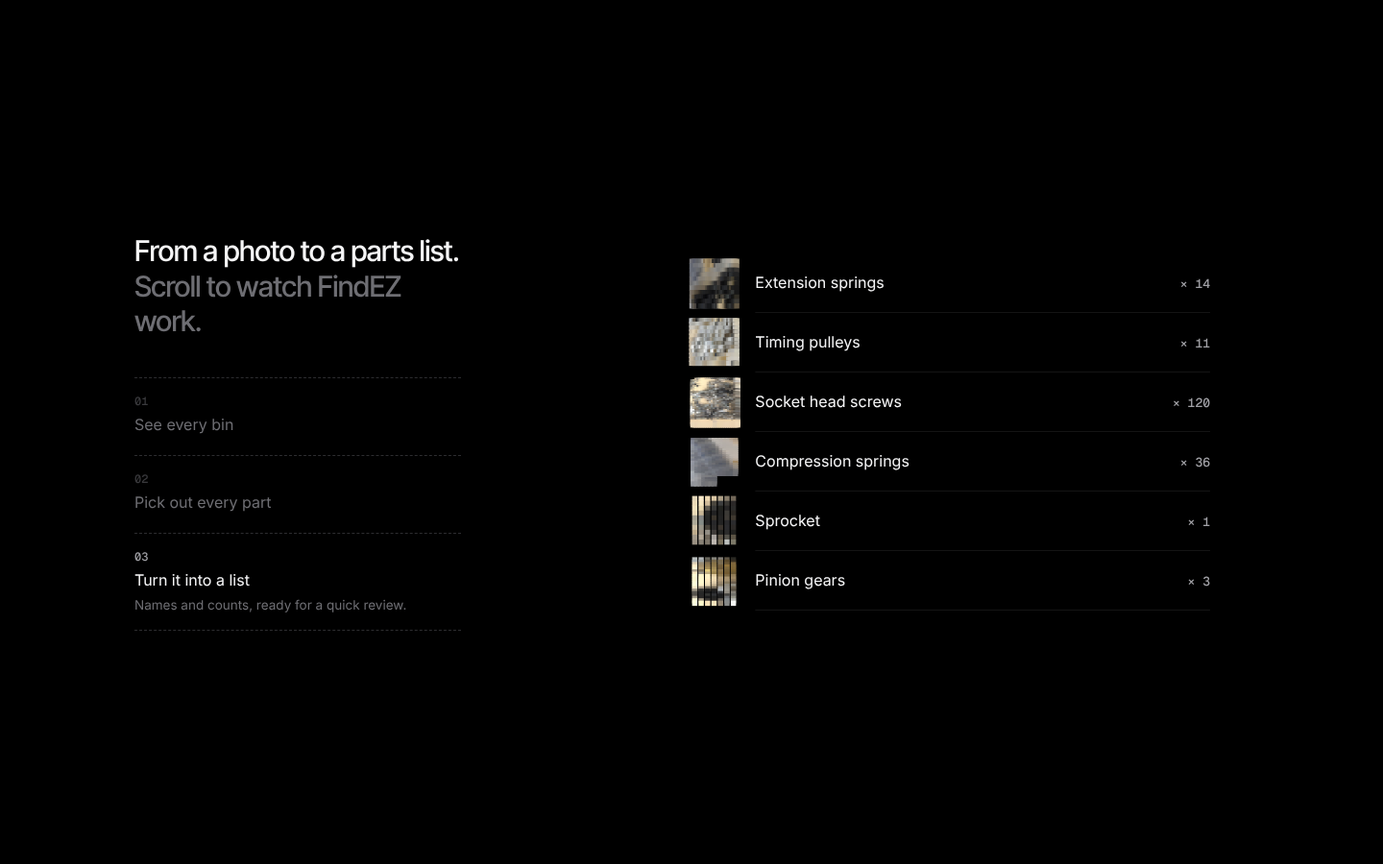
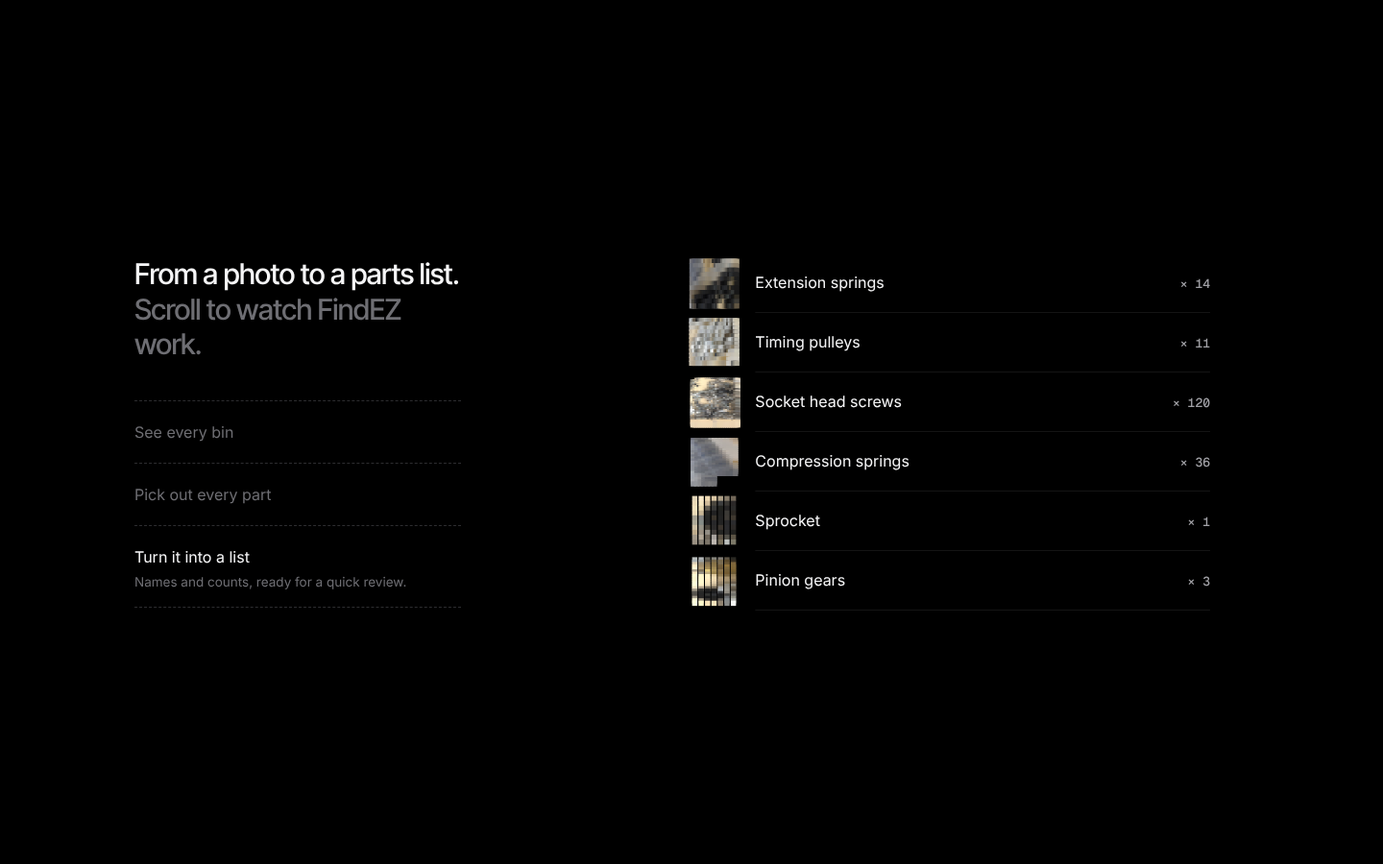
Apply revised homepage links and Community navigation

diff --git a/docs/landing-v3/prototype/findez-landing.html b/docs/landing-v3/prototype/findez-landing.html
@@ -249,7 +249,7 @@ body{overflow-x:hidden}
 .fa2 .fine{margin-top:14px;font-size:13px;color:var(--g2);max-width:480px;line-height:1.5}
 /* footer */
 .x-foot{border-top:1px solid var(--ln);padding:64px 0 40px}
-.x-fg{display:grid;grid-template-columns:1.6fr 1fr 1fr;gap:40px}
+.x-fg{display:grid;grid-template-columns:1.6fr 1fr 1fr 1fr;gap:40px}
 .x-fg h4{font:400 13px Inter;color:var(--g2);margin-bottom:12px}
 .x-fg a{display:block;color:var(--g1);text-decoration:none;font-size:14px;line-height:2.1}.x-fg a:hover{color:var(--w)}
 .x-fg .x-logo{display:flex;line-height:1}
@@ -314,18 +314,27 @@ body>header{z-index:60;position:fixed}
 .fa-bot small{display:block;font-size:10px;letter-spacing:.16em;color:rgba(11,11,12,.55);margin-bottom:3px;font-weight:500}
 .fa-shadow{position:absolute;left:50%;bottom:38px;width:340px;height:40px;margin-left:-170px;border-radius:50%;background:radial-gradient(closest-side,rgba(0,0,0,.85),transparent)}
 @media (max-width:980px){.fa-card{grid-template-columns:1fr;padding:40px 22px 10px;min-height:0;border-radius:22px}.fa-h{font-size:38px}.fa-h span{font-size:17px}.fa-list{grid-template-columns:1fr}.fa-stage{height:300px}.fa-pass{width:300px;height:190px;padding:18px 20px;border-radius:18px}.fa-name{margin-top:30px;font-size:25px}.fa-bot{gap:24px;font-size:12.5px}.fa-shadow{width:240px;margin-left:-120px;bottom:30px}}
+
+.x-dd{position:relative}
+.x-ddb{display:flex;align-items:center;gap:6px;background:none;border:0;padding:0;font:inherit;font-size:14px;color:var(--g1);cursor:pointer}
+.x-ddb:hover,.x-dd:focus-within .x-ddb{color:var(--w)}
+.x-ddm{position:absolute;left:50%;top:100%;margin-top:14px;transform:translate(-50%,-4px);min-width:160px;padding:6px;border-radius:12px;background:#111113;box-shadow:inset 0 0 0 1px #2C2C2E,0 20px 40px -12px #000;opacity:0;pointer-events:none;transition:opacity .2s,transform .3s var(--e)}
+.x-ddm:before{content:'';position:absolute;left:0;right:0;top:-16px;height:16px}
+.x-dd:hover .x-ddm,.x-dd:focus-within .x-ddm{opacity:1;pointer-events:auto;transform:translate(-50%,0)}
+.x-ddm a{display:block;padding:8px 12px;border-radius:8px;color:var(--g1);text-decoration:none;font-size:14px}
+.x-ddm a:hover{background:#1C1C1F;color:var(--w)}
 </style></head>
 <body>
 <canvas id="x-bg" aria-hidden="true"></canvas>
 <header class="x-nav" id="x-nav"><div class="x-in">
- <a class="x-logo" href="#"><svg width="20" height="20" viewBox="0 0 100 100" fill="#F5F5F6"><path d="M12 24A12 12 0 0 1 24 12L40.5 12A5 5 0 0 1 45.5 17L45.5 38.5A4.5 4.5 0 0 0 50 43A4.5 4.5 0 0 0 54.5 38.5L54.5 17A5 5 0 0 1 59.5 12L76 12A12 12 0 0 1 88 24L88 40.5A5 5 0 0 1 83 45.5L61.5 45.5A4.5 4.5 0 0 0 57 50A4.5 4.5 0 0 0 61.5 54.5L83 54.5A5 5 0 0 1 88 59.5L88 76A12 12 0 0 1 76 88L59.5 88A5 5 0 0 1 54.5 83L54.5 61.5A4.5 4.5 0 0 0 50 57A4.5 4.5 0 0 0 45.5 61.5L45.5 83A5 5 0 0 1 40.5 88L24 88A12 12 0 0 1 12 76L12 59.5A5 5 0 0 1 17 54.5L38.5 54.5A4.5 4.5 0 0 0 43 50A4.5 4.5 0 0 0 38.5 45.5L17 45.5A5 5 0 0 1 12 40.5Z"/></svg>FindEZ AI</a>
- <nav class="x-links"><a href="#">Solutions</a><a href="#cad">CAD Intelligence</a><a href="#x-fa">Founders Access</a><a href="#">Developers</a></nav>
- <div class="x-act"><a class="si" href="#">Sign in</a><a class="x-p w" href="#">Download</a></div>
+ <a class="x-logo" href="/"><svg width="20" height="20" viewBox="0 0 100 100" fill="#F5F5F6"><path d="M12 24A12 12 0 0 1 24 12L40.5 12A5 5 0 0 1 45.5 17L45.5 38.5A4.5 4.5 0 0 0 50 43A4.5 4.5 0 0 0 54.5 38.5L54.5 17A5 5 0 0 1 59.5 12L76 12A12 12 0 0 1 88 24L88 40.5A5 5 0 0 1 83 45.5L61.5 45.5A4.5 4.5 0 0 0 57 50A4.5 4.5 0 0 0 61.5 54.5L83 54.5A5 5 0 0 1 88 59.5L88 76A12 12 0 0 1 76 88L59.5 88A5 5 0 0 1 54.5 83L54.5 61.5A4.5 4.5 0 0 0 50 57A4.5 4.5 0 0 0 45.5 61.5L45.5 83A5 5 0 0 1 40.5 88L24 88A12 12 0 0 1 12 76L12 59.5A5 5 0 0 1 17 54.5L38.5 54.5A4.5 4.5 0 0 0 43 50A4.5 4.5 0 0 0 38.5 45.5L17 45.5A5 5 0 0 1 12 40.5Z"/></svg>FindEZ AI</a>
+ <nav class="x-links"><a href="/solutions">Solutions</a><a href="#cad">CAD Intelligence</a><a href="/founders">Founders Access</a><a href="/docs/api">Developers</a><div class="x-dd"><button class="x-ddb" type="button" aria-haspopup="true">Community<svg width="10" height="10" viewBox="0 0 24 24" fill="none" stroke="currentColor" stroke-width="2.4" stroke-linecap="round"><path d="m6 9 6 6 6-6"/></svg></button><div class="x-ddm"><a href="https://discord.gg/sKRrWA5wbf" target="_blank" rel="noopener">Discord</a><a href="https://www.instagram.com/findezai/" target="_blank" rel="noopener">Instagram</a></div></div></nav>
+ <div class="x-act"><a class="si" href="/signin">Sign in</a><a class="x-p w" href="/desktop">Download</a></div>
 </div></header>
 
 <section class="x-hero"><div class="x-in">
  <h1 class="x-h1">The AI inventory for people who build things.<span>Snap a shelf. Ask where anything is. Get the exact bin.</span></h1>
- <div class="x-ctas"><a class="x-p w lg" href="#"><svg width="14" height="16" viewBox="0 0 814 1000" fill="currentColor"><path d="M788 341c-6 4-108 62-108 190 0 148 130 200 134 201-1 3-21 72-69 142-43 62-88 124-156 124s-86-40-165-40c-77 0-104 41-166 41s-106-57-156-127C44 789 0 668 0 553c0-184 120-282 238-282 63 0 115 41 155 41 38 0 97-44 168-44 27 0 124 3 188 95zM554 169c29-35 50-83 50-131 0-7-1-13-2-19-47 2-104 32-138 72-27 30-52 79-52 128 0 7 1 15 2 17 3 1 8 1 13 1 43 0 97-29 127-68z"/></svg>Download for iPhone</a><a class="x-p d lg" href="#">Open the web app</a></div>
+ <div class="x-ctas"><a class="x-p w lg" href="https://apps.apple.com/us/app/findez-ai/id6760401697"><svg width="14" height="16" viewBox="0 0 814 1000" fill="currentColor"><path d="M788 341c-6 4-108 62-108 190 0 148 130 200 134 201-1 3-21 72-69 142-43 62-88 124-156 124s-86-40-165-40c-77 0-104 41-166 41s-106-57-156-127C44 789 0 668 0 553c0-184 120-282 238-282 63 0 115 41 155 41 38 0 97-44 168-44 27 0 124 3 188 95zM554 169c29-35 50-83 50-131 0-7-1-13-2-19-47 2-104 32-138 72-27 30-52 79-52 128 0 7 1 15 2 17 3 1 8 1 13 1 43 0 97-29 127-68z"/></svg>Download for iPhone</a><a class="x-p d lg" href="/signin">Open the web app</a></div>
  <p class="x-small">Free through Founders Access</p>
  <div class="x-stagew"><div class="x-stage" id="x-stage"><div class="x-scale" id="x-scale">
   <div class="app" id="app">
@@ -393,9 +402,9 @@ body>header{z-index:60;position:fixed}
 
 <section class="pm" id="pm"><div class="pm-st"><canvas id="pmc" aria-hidden="true"></canvas>
  <div class="pm-cp"><h2 class="x-h2">From a photo to a parts list.<span>Scroll to watch FindEZ work.</span></h2>
-  <div class="pm-ph"><div class="pm-r on"><i></i><div class="k">01</div><div class="t">See every bin</div><div class="d">Every pixel of the photo is read, every bin and everything in it.</div></div>
-   <div class="pm-r"><i></i><div class="k">02</div><div class="t">Pick out every part</div><div class="d">Each part is separated from the clutter around it.</div></div>
-   <div class="pm-r"><i></i><div class="k">03</div><div class="t">Turn it into a list</div><div class="d">Names and counts, ready for a quick review.</div></div></div></div></div></section>
+  <div class="pm-ph"><div class="pm-r on"><i></i><div class="t">See every bin</div><div class="d">Every pixel of the photo is read, every bin and everything in it.</div></div>
+   <div class="pm-r"><i></i><div class="t">Pick out every part</div><div class="d">Each part is separated from the clutter around it.</div></div>
+   <div class="pm-r"><i></i><div class="t">Turn it into a list</div><div class="d">Names and counts, ready for a quick review.</div></div></div></div></div></section>
 
 
 
@@ -410,7 +419,7 @@ body>header{z-index:60;position:fixed}
    <div class="fa-tag mono">FOUNDERS ACCESS</div>
    <h2 class="fa-h">Get in early.<span>Every feature unlocked, free while we get ready for launch.</span></h2>
    <ul class="fa-list"><li><svg width="16" height="16" viewBox="0 0 24 24" fill="none" stroke="#F5F5F6" stroke-width="2.4" stroke-linecap="round" stroke-linejoin="round"><path d="M20 6 9 17l-5-5"/></svg>Ask FindEZ anything</li><li><svg width="16" height="16" viewBox="0 0 24 24" fill="none" stroke="#F5F5F6" stroke-width="2.4" stroke-linecap="round" stroke-linejoin="round"><path d="M20 6 9 17l-5-5"/></svg>Snap a shelf, get a parts list</li><li><svg width="16" height="16" viewBox="0 0 24 24" fill="none" stroke="#F5F5F6" stroke-width="2.4" stroke-linecap="round" stroke-linejoin="round"><path d="M20 6 9 17l-5-5"/></svg>Add new items</li><li><svg width="16" height="16" viewBox="0 0 24 24" fill="none" stroke="#F5F5F6" stroke-width="2.4" stroke-linecap="round" stroke-linejoin="round"><path d="M20 6 9 17l-5-5"/></svg>Import a spreadsheet</li></ul>
-   <div class="x-ctas"><a class="x-p w lg" href="#">Join Founders Access</a><a class="x-p d lg" href="#"><svg width="14" height="16" viewBox="0 0 814 1000" fill="currentColor"><path d="M788 341c-6 4-108 62-108 190 0 148 130 200 134 201-1 3-21 72-69 142-43 62-88 124-156 124s-86-40-165-40c-77 0-104 41-166 41s-106-57-156-127C44 789 0 668 0 553c0-184 120-282 238-282 63 0 115 41 155 41 38 0 97-44 168-44 27 0 124 3 188 95zM554 169c29-35 50-83 50-131 0-7-1-13-2-19-47 2-104 32-138 72-27 30-52 79-52 128 0 7 1 15 2 17 3 1 8 1 13 1 43 0 97-29 127-68z"/></svg>Download for iPhone</a></div>
+   <div class="x-ctas"><a class="x-p w lg" href="/signup">Join Founders Access</a><a class="x-p d lg" href="https://apps.apple.com/us/app/findez-ai/id6760401697"><svg width="14" height="16" viewBox="0 0 814 1000" fill="currentColor"><path d="M788 341c-6 4-108 62-108 190 0 148 130 200 134 201-1 3-21 72-69 142-43 62-88 124-156 124s-86-40-165-40c-77 0-104 41-166 41s-106-57-156-127C44 789 0 668 0 553c0-184 120-282 238-282 63 0 115 41 155 41 38 0 97-44 168-44 27 0 124 3 188 95zM554 169c29-35 50-83 50-131 0-7-1-13-2-19-47 2-104 32-138 72-27 30-52 79-52 128 0 7 1 15 2 17 3 1 8 1 13 1 43 0 97-29 127-68z"/></svg>Download for iPhone</a></div>
    <p class="fine">Paid plans may come later. Changes are always announced in advance, and everything saved stays yours.</p>
   </div>
   <div class="fa-stage" aria-hidden="true"><div class="fa-pass" id="fa-pass"><div class="fa-sheen" id="fa-sheen"></div>
@@ -422,9 +431,9 @@ body>header{z-index:60;position:fixed}
 </div></section>
 
 <footer class="x-foot"><div class="x-in">
- <div class="x-fg"><div><a class="x-logo" href="#"><svg width="20" height="20" viewBox="0 0 100 100" fill="#F5F5F6"><path d="M12 24A12 12 0 0 1 24 12L40.5 12A5 5 0 0 1 45.5 17L45.5 38.5A4.5 4.5 0 0 0 50 43A4.5 4.5 0 0 0 54.5 38.5L54.5 17A5 5 0 0 1 59.5 12L76 12A12 12 0 0 1 88 24L88 40.5A5 5 0 0 1 83 45.5L61.5 45.5A4.5 4.5 0 0 0 57 50A4.5 4.5 0 0 0 61.5 54.5L83 54.5A5 5 0 0 1 88 59.5L88 76A12 12 0 0 1 76 88L59.5 88A5 5 0 0 1 54.5 83L54.5 61.5A4.5 4.5 0 0 0 50 57A4.5 4.5 0 0 0 45.5 61.5L45.5 83A5 5 0 0 1 40.5 88L24 88A12 12 0 0 1 12 76L12 59.5A5 5 0 0 1 17 54.5L38.5 54.5A4.5 4.5 0 0 0 43 50A4.5 4.5 0 0 0 38.5 45.5L17 45.5A5 5 0 0 1 12 40.5Z"/></svg>FindEZ AI</a><p class="x-tag">Know what you have. Find what you need. Instantly.</p></div>
-  <div><h4>Product</h4><a href="#">Founders Access</a><a href="#">CAD Intelligence</a><a href="#">Plans &amp; access</a><a href="#">iPhone app</a><a href="#">Developers</a></div>
-  <div><h4>Company</h4><a href="#">Research</a><a href="mailto:info@findez.ai">Contact</a><a href="#">Privacy</a><a href="#">Terms</a></div></div>
+ <div class="x-fg"><div><a class="x-logo" href="/"><svg width="20" height="20" viewBox="0 0 100 100" fill="#F5F5F6"><path d="M12 24A12 12 0 0 1 24 12L40.5 12A5 5 0 0 1 45.5 17L45.5 38.5A4.5 4.5 0 0 0 50 43A4.5 4.5 0 0 0 54.5 38.5L54.5 17A5 5 0 0 1 59.5 12L76 12A12 12 0 0 1 88 24L88 40.5A5 5 0 0 1 83 45.5L61.5 45.5A4.5 4.5 0 0 0 57 50A4.5 4.5 0 0 0 61.5 54.5L83 54.5A5 5 0 0 1 88 59.5L88 76A12 12 0 0 1 76 88L59.5 88A5 5 0 0 1 54.5 83L54.5 61.5A4.5 4.5 0 0 0 50 57A4.5 4.5 0 0 0 45.5 61.5L45.5 83A5 5 0 0 1 40.5 88L24 88A12 12 0 0 1 12 76L12 59.5A5 5 0 0 1 17 54.5L38.5 54.5A4.5 4.5 0 0 0 43 50A4.5 4.5 0 0 0 38.5 45.5L17 45.5A5 5 0 0 1 12 40.5Z"/></svg>FindEZ AI</a><p class="x-tag">Know what you have. Find what you need. Instantly.</p></div>
+  <div><h4>Product</h4><a href="/founders">Founders Access</a><a href="/#cad">CAD Intelligence</a><a href="/solutions">Solutions</a><a href="/pricing">Plans &amp; access</a><a href="https://apps.apple.com/us/app/findez-ai/id6760401697">iPhone app</a><a href="/docs/api">Developers</a></div>
+  <div><h4>Company</h4><a href="/research">Research</a><a href="mailto:info@findez.ai">Contact</a><a href="/privacy">Privacy</a><a href="/terms">Terms</a></div><div><h4>Community</h4><a href="https://discord.gg/sKRrWA5wbf" target="_blank" rel="noopener">Discord</a><a href="https://www.instagram.com/findezai/" target="_blank" rel="noopener">Instagram</a></div></div>
  <div class="x-fb"><span>&copy; 2026 AI Robots Inc.</span><span>FindEZ AI answers from what&#8217;s recorded in your inventory.</span></div>
 </div></footer>
 

diff --git a/docs/landing-v3/source/landing-readable.html b/docs/landing-v3/source/landing-readable.html
@@ -249,7 +249,7 @@ body{overflow-x:hidden}
 .fa2 .fine{margin-top:14px;font-size:13px;color:var(--g2);max-width:480px;line-height:1.5}
 /* footer */
 .x-foot{border-top:1px solid var(--ln);padding:64px 0 40px}
-.x-fg{display:grid;grid-template-columns:1.6fr 1fr 1fr;gap:40px}
+.x-fg{display:grid;grid-template-columns:1.6fr 1fr 1fr 1fr;gap:40px}
 .x-fg h4{font:400 13px Inter;color:var(--g2);margin-bottom:12px}
 .x-fg a{display:block;color:var(--g1);text-decoration:none;font-size:14px;line-height:2.1}.x-fg a:hover{color:var(--w)}
 .x-fg .x-logo{display:flex;line-height:1}
@@ -314,18 +314,27 @@ body>header{z-index:60;position:fixed}
 .fa-bot small{display:block;font-size:10px;letter-spacing:.16em;color:rgba(11,11,12,.55);margin-bottom:3px;font-weight:500}
 .fa-shadow{position:absolute;left:50%;bottom:38px;width:340px;height:40px;margin-left:-170px;border-radius:50%;background:radial-gradient(closest-side,rgba(0,0,0,.85),transparent)}
 @media (max-width:980px){.fa-card{grid-template-columns:1fr;padding:40px 22px 10px;min-height:0;border-radius:22px}.fa-h{font-size:38px}.fa-h span{font-size:17px}.fa-list{grid-template-columns:1fr}.fa-stage{height:300px}.fa-pass{width:300px;height:190px;padding:18px 20px;border-radius:18px}.fa-name{margin-top:30px;font-size:25px}.fa-bot{gap:24px;font-size:12.5px}.fa-shadow{width:240px;margin-left:-120px;bottom:30px}}
+
+.x-dd{position:relative}
+.x-ddb{display:flex;align-items:center;gap:6px;background:none;border:0;padding:0;font:inherit;font-size:14px;color:var(--g1);cursor:pointer}
+.x-ddb:hover,.x-dd:focus-within .x-ddb{color:var(--w)}
+.x-ddm{position:absolute;left:50%;top:100%;margin-top:14px;transform:translate(-50%,-4px);min-width:160px;padding:6px;border-radius:12px;background:#111113;box-shadow:inset 0 0 0 1px #2C2C2E,0 20px 40px -12px #000;opacity:0;pointer-events:none;transition:opacity .2s,transform .3s var(--e)}
+.x-ddm:before{content:'';position:absolute;left:0;right:0;top:-16px;height:16px}
+.x-dd:hover .x-ddm,.x-dd:focus-within .x-ddm{opacity:1;pointer-events:auto;transform:translate(-50%,0)}
+.x-ddm a{display:block;padding:8px 12px;border-radius:8px;color:var(--g1);text-decoration:none;font-size:14px}
+.x-ddm a:hover{background:#1C1C1F;color:var(--w)}
 </style></head>
 <body>
 <canvas id="x-bg" aria-hidden="true"></canvas>
 <header class="x-nav" id="x-nav"><div class="x-in">
- <a class="x-logo" href="#"><svg width="20" height="20" viewBox="0 0 100 100" fill="#F5F5F6"><path d="M12 24A12 12 0 0 1 24 12L40.5 12A5 5 0 0 1 45.5 17L45.5 38.5A4.5 4.5 0 0 0 50 43A4.5 4.5 0 0 0 54.5 38.5L54.5 17A5 5 0 0 1 59.5 12L76 12A12 12 0 0 1 88 24L88 40.5A5 5 0 0 1 83 45.5L61.5 45.5A4.5 4.5 0 0 0 57 50A4.5 4.5 0 0 0 61.5 54.5L83 54.5A5 5 0 0 1 88 59.5L88 76A12 12 0 0 1 76 88L59.5 88A5 5 0 0 1 54.5 83L54.5 61.5A4.5 4.5 0 0 0 50 57A4.5 4.5 0 0 0 45.5 61.5L45.5 83A5 5 0 0 1 40.5 88L24 88A12 12 0 0 1 12 76L12 59.5A5 5 0 0 1 17 54.5L38.5 54.5A4.5 4.5 0 0 0 43 50A4.5 4.5 0 0 0 38.5 45.5L17 45.5A5 5 0 0 1 12 40.5Z"/></svg>FindEZ AI</a>
- <nav class="x-links"><a href="#">Solutions</a><a href="#cad">CAD Intelligence</a><a href="#x-fa">Founders Access</a><a href="#">Developers</a></nav>
- <div class="x-act"><a class="si" href="#">Sign in</a><a class="x-p w" href="#">Download</a></div>
+ <a class="x-logo" href="/"><svg width="20" height="20" viewBox="0 0 100 100" fill="#F5F5F6"><path d="M12 24A12 12 0 0 1 24 12L40.5 12A5 5 0 0 1 45.5 17L45.5 38.5A4.5 4.5 0 0 0 50 43A4.5 4.5 0 0 0 54.5 38.5L54.5 17A5 5 0 0 1 59.5 12L76 12A12 12 0 0 1 88 24L88 40.5A5 5 0 0 1 83 45.5L61.5 45.5A4.5 4.5 0 0 0 57 50A4.5 4.5 0 0 0 61.5 54.5L83 54.5A5 5 0 0 1 88 59.5L88 76A12 12 0 0 1 76 88L59.5 88A5 5 0 0 1 54.5 83L54.5 61.5A4.5 4.5 0 0 0 50 57A4.5 4.5 0 0 0 45.5 61.5L45.5 83A5 5 0 0 1 40.5 88L24 88A12 12 0 0 1 12 76L12 59.5A5 5 0 0 1 17 54.5L38.5 54.5A4.5 4.5 0 0 0 43 50A4.5 4.5 0 0 0 38.5 45.5L17 45.5A5 5 0 0 1 12 40.5Z"/></svg>FindEZ AI</a>
+ <nav class="x-links"><a href="/solutions">Solutions</a><a href="#cad">CAD Intelligence</a><a href="/founders">Founders Access</a><a href="/docs/api">Developers</a><div class="x-dd"><button class="x-ddb" type="button" aria-haspopup="true">Community<svg width="10" height="10" viewBox="0 0 24 24" fill="none" stroke="currentColor" stroke-width="2.4" stroke-linecap="round"><path d="m6 9 6 6 6-6"/></svg></button><div class="x-ddm"><a href="https://discord.gg/sKRrWA5wbf" target="_blank" rel="noopener">Discord</a><a href="https://www.instagram.com/findezai/" target="_blank" rel="noopener">Instagram</a></div></div></nav>
+ <div class="x-act"><a class="si" href="/signin">Sign in</a><a class="x-p w" href="/desktop">Download</a></div>
 </div></header>
 
 <section class="x-hero"><div class="x-in">
  <h1 class="x-h1">The AI inventory for people who build things.<span>Snap a shelf. Ask where anything is. Get the exact bin.</span></h1>
- <div class="x-ctas"><a class="x-p w lg" href="#"><svg width="14" height="16" viewBox="0 0 814 1000" fill="currentColor"><path d="M788 341c-6 4-108 62-108 190 0 148 130 200 134 201-1 3-21 72-69 142-43 62-88 124-156 124s-86-40-165-40c-77 0-104 41-166 41s-106-57-156-127C44 789 0 668 0 553c0-184 120-282 238-282 63 0 115 41 155 41 38 0 97-44 168-44 27 0 124 3 188 95zM554 169c29-35 50-83 50-131 0-7-1-13-2-19-47 2-104 32-138 72-27 30-52 79-52 128 0 7 1 15 2 17 3 1 8 1 13 1 43 0 97-29 127-68z"/></svg>Download for iPhone</a><a class="x-p d lg" href="#">Open the web app</a></div>
+ <div class="x-ctas"><a class="x-p w lg" href="https://apps.apple.com/us/app/findez-ai/id6760401697"><svg width="14" height="16" viewBox="0 0 814 1000" fill="currentColor"><path d="M788 341c-6 4-108 62-108 190 0 148 130 200 134 201-1 3-21 72-69 142-43 62-88 124-156 124s-86-40-165-40c-77 0-104 41-166 41s-106-57-156-127C44 789 0 668 0 553c0-184 120-282 238-282 63 0 115 41 155 41 38 0 97-44 168-44 27 0 124 3 188 95zM554 169c29-35 50-83 50-131 0-7-1-13-2-19-47 2-104 32-138 72-27 30-52 79-52 128 0 7 1 15 2 17 3 1 8 1 13 1 43 0 97-29 127-68z"/></svg>Download for iPhone</a><a class="x-p d lg" href="/signin">Open the web app</a></div>
  <p class="x-small">Free through Founders Access</p>
  <div class="x-stagew"><div class="x-stage" id="x-stage"><div class="x-scale" id="x-scale">
   <div class="app" id="app">
@@ -393,9 +402,9 @@ body>header{z-index:60;position:fixed}
 
 <section class="pm" id="pm"><div class="pm-st"><canvas id="pmc" aria-hidden="true"></canvas>
  <div class="pm-cp"><h2 class="x-h2">From a photo to a parts list.<span>Scroll to watch FindEZ work.</span></h2>
-  <div class="pm-ph"><div class="pm-r on"><i></i><div class="k">01</div><div class="t">See every bin</div><div class="d">Every pixel of the photo is read, every bin and everything in it.</div></div>
-   <div class="pm-r"><i></i><div class="k">02</div><div class="t">Pick out every part</div><div class="d">Each part is separated from the clutter around it.</div></div>
-   <div class="pm-r"><i></i><div class="k">03</div><div class="t">Turn it into a list</div><div class="d">Names and counts, ready for a quick review.</div></div></div></div></div></section>
+  <div class="pm-ph"><div class="pm-r on"><i></i><div class="t">See every bin</div><div class="d">Every pixel of the photo is read, every bin and everything in it.</div></div>
+   <div class="pm-r"><i></i><div class="t">Pick out every part</div><div class="d">Each part is separated from the clutter around it.</div></div>
+   <div class="pm-r"><i></i><div class="t">Turn it into a list</div><div class="d">Names and counts, ready for a quick review.</div></div></div></div></div></section>
 
 
 
@@ -410,7 +419,7 @@ body>header{z-index:60;position:fixed}
    <div class="fa-tag mono">FOUNDERS ACCESS</div>
    <h2 class="fa-h">Get in early.<span>Every feature unlocked, free while we get ready for launch.</span></h2>
    <ul class="fa-list"><li><svg width="16" height="16" viewBox="0 0 24 24" fill="none" stroke="#F5F5F6" stroke-width="2.4" stroke-linecap="round" stroke-linejoin="round"><path d="M20 6 9 17l-5-5"/></svg>Ask FindEZ anything</li><li><svg width="16" height="16" viewBox="0 0 24 24" fill="none" stroke="#F5F5F6" stroke-width="2.4" stroke-linecap="round" stroke-linejoin="round"><path d="M20 6 9 17l-5-5"/></svg>Snap a shelf, get a parts list</li><li><svg width="16" height="16" viewBox="0 0 24 24" fill="none" stroke="#F5F5F6" stroke-width="2.4" stroke-linecap="round" stroke-linejoin="round"><path d="M20 6 9 17l-5-5"/></svg>Add new items</li><li><svg width="16" height="16" viewBox="0 0 24 24" fill="none" stroke="#F5F5F6" stroke-width="2.4" stroke-linecap="round" stroke-linejoin="round"><path d="M20 6 9 17l-5-5"/></svg>Import a spreadsheet</li></ul>
-   <div class="x-ctas"><a class="x-p w lg" href="#">Join Founders Access</a><a class="x-p d lg" href="#"><svg width="14" height="16" viewBox="0 0 814 1000" fill="currentColor"><path d="M788 341c-6 4-108 62-108 190 0 148 130 200 134 201-1 3-21 72-69 142-43 62-88 124-156 124s-86-40-165-40c-77 0-104 41-166 41s-106-57-156-127C44 789 0 668 0 553c0-184 120-282 238-282 63 0 115 41 155 41 38 0 97-44 168-44 27 0 124 3 188 95zM554 169c29-35 50-83 50-131 0-7-1-13-2-19-47 2-104 32-138 72-27 30-52 79-52 128 0 7 1 15 2 17 3 1 8 1 13 1 43 0 97-29 127-68z"/></svg>Download for iPhone</a></div>
+   <div class="x-ctas"><a class="x-p w lg" href="/signup">Join Founders Access</a><a class="x-p d lg" href="https://apps.apple.com/us/app/findez-ai/id6760401697"><svg width="14" height="16" viewBox="0 0 814 1000" fill="currentColor"><path d="M788 341c-6 4-108 62-108 190 0 148 130 200 134 201-1 3-21 72-69 142-43 62-88 124-156 124s-86-40-165-40c-77 0-104 41-166 41s-106-57-156-127C44 789 0 668 0 553c0-184 120-282 238-282 63 0 115 41 155 41 38 0 97-44 168-44 27 0 124 3 188 95zM554 169c29-35 50-83 50-131 0-7-1-13-2-19-47 2-104 32-138 72-27 30-52 79-52 128 0 7 1 15 2 17 3 1 8 1 13 1 43 0 97-29 127-68z"/></svg>Download for iPhone</a></div>
    <p class="fine">Paid plans may come later. Changes are always announced in advance, and everything saved stays yours.</p>
   </div>
   <div class="fa-stage" aria-hidden="true"><div class="fa-pass" id="fa-pass"><div class="fa-sheen" id="fa-sheen"></div>
@@ -422,9 +431,9 @@ body>header{z-index:60;position:fixed}
 </div></section>
 
 <footer class="x-foot"><div class="x-in">
- <div class="x-fg"><div><a class="x-logo" href="#"><svg width="20" height="20" viewBox="0 0 100 100" fill="#F5F5F6"><path d="M12 24A12 12 0 0 1 24 12L40.5 12A5 5 0 0 1 45.5 17L45.5 38.5A4.5 4.5 0 0 0 50 43A4.5 4.5 0 0 0 54.5 38.5L54.5 17A5 5 0 0 1 59.5 12L76 12A12 12 0 0 1 88 24L88 40.5A5 5 0 0 1 83 45.5L61.5 45.5A4.5 4.5 0 0 0 57 50A4.5 4.5 0 0 0 61.5 54.5L83 54.5A5 5 0 0 1 88 59.5L88 76A12 12 0 0 1 76 88L59.5 88A5 5 0 0 1 54.5 83L54.5 61.5A4.5 4.5 0 0 0 50 57A4.5 4.5 0 0 0 45.5 61.5L45.5 83A5 5 0 0 1 40.5 88L24 88A12 12 0 0 1 12 76L12 59.5A5 5 0 0 1 17 54.5L38.5 54.5A4.5 4.5 0 0 0 43 50A4.5 4.5 0 0 0 38.5 45.5L17 45.5A5 5 0 0 1 12 40.5Z"/></svg>FindEZ AI</a><p class="x-tag">Know what you have. Find what you need. Instantly.</p></div>
-  <div><h4>Product</h4><a href="#">Founders Access</a><a href="#">CAD Intelligence</a><a href="#">Plans &amp; access</a><a href="#">iPhone app</a><a href="#">Developers</a></div>
-  <div><h4>Company</h4><a href="#">Research</a><a href="mailto:info@findez.ai">Contact</a><a href="#">Privacy</a><a href="#">Terms</a></div></div>
+ <div class="x-fg"><div><a class="x-logo" href="/"><svg width="20" height="20" viewBox="0 0 100 100" fill="#F5F5F6"><path d="M12 24A12 12 0 0 1 24 12L40.5 12A5 5 0 0 1 45.5 17L45.5 38.5A4.5 4.5 0 0 0 50 43A4.5 4.5 0 0 0 54.5 38.5L54.5 17A5 5 0 0 1 59.5 12L76 12A12 12 0 0 1 88 24L88 40.5A5 5 0 0 1 83 45.5L61.5 45.5A4.5 4.5 0 0 0 57 50A4.5 4.5 0 0 0 61.5 54.5L83 54.5A5 5 0 0 1 88 59.5L88 76A12 12 0 0 1 76 88L59.5 88A5 5 0 0 1 54.5 83L54.5 61.5A4.5 4.5 0 0 0 50 57A4.5 4.5 0 0 0 45.5 61.5L45.5 83A5 5 0 0 1 40.5 88L24 88A12 12 0 0 1 12 76L12 59.5A5 5 0 0 1 17 54.5L38.5 54.5A4.5 4.5 0 0 0 43 50A4.5 4.5 0 0 0 38.5 45.5L17 45.5A5 5 0 0 1 12 40.5Z"/></svg>FindEZ AI</a><p class="x-tag">Know what you have. Find what you need. Instantly.</p></div>
+  <div><h4>Product</h4><a href="/founders">Founders Access</a><a href="/#cad">CAD Intelligence</a><a href="/solutions">Solutions</a><a href="/pricing">Plans &amp; access</a><a href="https://apps.apple.com/us/app/findez-ai/id6760401697">iPhone app</a><a href="/docs/api">Developers</a></div>
+  <div><h4>Company</h4><a href="/research">Research</a><a href="mailto:info@findez.ai">Contact</a><a href="/privacy">Privacy</a><a href="/terms">Terms</a></div><div><h4>Community</h4><a href="https://discord.gg/sKRrWA5wbf" target="_blank" rel="noopener">Discord</a><a href="https://www.instagram.com/findezai/" target="_blank" rel="noopener">Instagram</a></div></div>
  <div class="x-fb"><span>&copy; 2026 AI Robots Inc.</span><span>FindEZ AI answers from what&#8217;s recorded in your inventory.</span></div>
 </div></footer>
 

diff --git a/frontend/src/components/marketing-dark/home-content.tsx b/frontend/src/components/marketing-dark/home-content.tsx
@@ -2,9 +2,9 @@ import Image from 'next/image';
 // Literal server-rendered copy and sample data from the supplied landing design.
 export function BackgroundMarkup(){return (<canvas id={"x-bg"} aria-hidden={"true"}></canvas>);}
 export function HeaderMarkup(){return (<header className={"x-nav"} id={"x-nav"}><div className={"x-in"}>
-<a className={"x-logo"} href={"#top"}><svg width={"20"} height={"20"} viewBox={"0 0 100 100"} fill={"#F5F5F6"}><path d={"M12 24A12 12 0 0 1 24 12L40.5 12A5 5 0 0 1 45.5 17L45.5 38.5A4.5 4.5 0 0 0 50 43A4.5 4.5 0 0 0 54.5 38.5L54.5 17A5 5 0 0 1 59.5 12L76 12A12 12 0 0 1 88 24L88 40.5A5 5 0 0 1 83 45.5L61.5 45.5A4.5 4.5 0 0 0 57 50A4.5 4.5 0 0 0 61.5 54.5L83 54.5A5 5 0 0 1 88 59.5L88 76A12 12 0 0 1 76 88L59.5 88A5 5 0 0 1 54.5 83L54.5 61.5A4.5 4.5 0 0 0 50 57A4.5 4.5 0 0 0 45.5 61.5L45.5 83A5 5 0 0 1 40.5 88L24 88A12 12 0 0 1 12 76L12 59.5A5 5 0 0 1 17 54.5L38.5 54.5A4.5 4.5 0 0 0 43 50A4.5 4.5 0 0 0 38.5 45.5L17 45.5A5 5 0 0 1 12 40.5Z"}></path></svg>{"FindEZ AI"}</a>
-<nav className={"x-links"}><a href={"/solutions"}>{"Solutions"}</a><a href={"#cad"}>{"CAD Intelligence"}</a><a href={"#x-fa"}>{"Founders Access"}</a><a href={"/docs/api"}>{"Developers"}</a></nav>
-<div className={"x-act"}><a className={"si"} href={"/signin"}>{"Sign in"}</a><a className={"x-p w"} href={"https://apps.apple.com/us/app/findez-ai/id6760401697"}>{"Download"}</a></div>
+<a className={"x-logo"} href={"/"}><svg width={"20"} height={"20"} viewBox={"0 0 100 100"} fill={"#F5F5F6"}><path d={"M12 24A12 12 0 0 1 24 12L40.5 12A5 5 0 0 1 45.5 17L45.5 38.5A4.5 4.5 0 0 0 50 43A4.5 4.5 0 0 0 54.5 38.5L54.5 17A5 5 0 0 1 59.5 12L76 12A12 12 0 0 1 88 24L88 40.5A5 5 0 0 1 83 45.5L61.5 45.5A4.5 4.5 0 0 0 57 50A4.5 4.5 0 0 0 61.5 54.5L83 54.5A5 5 0 0 1 88 59.5L88 76A12 12 0 0 1 76 88L59.5 88A5 5 0 0 1 54.5 83L54.5 61.5A4.5 4.5 0 0 0 50 57A4.5 4.5 0 0 0 45.5 61.5L45.5 83A5 5 0 0 1 40.5 88L24 88A12 12 0 0 1 12 76L12 59.5A5 5 0 0 1 17 54.5L38.5 54.5A4.5 4.5 0 0 0 43 50A4.5 4.5 0 0 0 38.5 45.5L17 45.5A5 5 0 0 1 12 40.5Z"}></path></svg>{"FindEZ AI"}</a>
+<nav className={"x-links"}><a href={"/solutions"}>{"Solutions"}</a><a href={"#cad"}>{"CAD Intelligence"}</a><a href={"/founders"}>{"Founders Access"}</a><a href={"/docs/api"}>{"Developers"}</a><div className="x-dd"><button className="x-ddb" type="button" aria-haspopup="true">Community<svg width="10" height="10" viewBox="0 0 24 24" fill="none" stroke="currentColor" strokeWidth="2.4" strokeLinecap="round"><path d="m6 9 6 6 6-6"/></svg></button><div className="x-ddm"><a href="https://discord.gg/sKRrWA5wbf" target="_blank" rel="noopener">Discord</a><a href="https://www.instagram.com/findezai/" target="_blank" rel="noopener">Instagram</a></div></div></nav>
+<div className={"x-act"}><a className={"si"} href={"/signin"}>{"Sign in"}</a><a className={"x-p w"} href={"/desktop"}>{"Download"}</a></div>
 </div></header>);}
 export function HeroMarkup(){return (<section className={"x-hero"}><div className={"x-in"}>
 <h1 className={"x-h1"}>{"The AI inventory for people who build things."}<span >{"Snap a shelf. Ask where anything is. Get the exact bin."}</span></h1>
@@ -47,9 +47,9 @@ export function HeroMarkup(){return (<section className={"x-hero"}><div classNam
 </div></section>);}
 export function PinnedMarkup(){return (<section className={"pm"} id={"pm"}><div className={"pm-st"}><canvas id={"pmc"} aria-hidden={"true"}></canvas>
 <div className={"pm-cp"}><h2 className={"x-h2"}>{"From a photo to a parts list."}<span >{"Scroll to watch FindEZ work."}</span></h2>
-<div className={"pm-ph"}><div className={"pm-r on"}><i ></i><div className={"k"}>{"01"}</div><div className={"t"}>{"See every bin"}</div><div className={"d"}>{"Every pixel of the photo is read, every bin and everything in it."}</div></div>
-<div className={"pm-r"}><i ></i><div className={"k"}>{"02"}</div><div className={"t"}>{"Pick out every part"}</div><div className={"d"}>{"Each part is separated from the clutter around it."}</div></div>
-<div className={"pm-r"}><i ></i><div className={"k"}>{"03"}</div><div className={"t"}>{"Turn it into a list"}</div><div className={"d"}>{"Names and counts, ready for a quick review."}</div></div></div></div></div></section>);}
+<div className={"pm-ph"}><div className={"pm-r on"}><i ></i><div className={"t"}>{"See every bin"}</div><div className={"d"}>{"Every pixel of the photo is read, every bin and everything in it."}</div></div>
+<div className={"pm-r"}><i ></i><div className={"t"}>{"Pick out every part"}</div><div className={"d"}>{"Each part is separated from the clutter around it."}</div></div>
+<div className={"pm-r"}><i ></i><div className={"t"}>{"Turn it into a list"}</div><div className={"d"}>{"Names and counts, ready for a quick review."}</div></div></div></div></div></section>);}
 export function ExamplesMarkup(){return (<section className={"x-sec x-afterpm"}><div className={"x-in"}><h2 className={"x-h2"}>{"Built for people who manage a lot of physical things"}<span >{"and need answers fast."}</span></h2></div>
 <div className={"mq"}><div className={"mqr"}><div className={"ex"}><div ><div className={"q"}>{"“Do we have a spare servo hub?”"}</div><div className={"a"}>{"1, in the Electronics tote."}</div></div><div className={"w"}><b >{"R"}</b>{"Robotics teams"}</div></div><div className={"ex"}><div ><div className={"q"}>{"“Where are the ER32 collets?”"}</div><div className={"a"}>{"14, on the CNC 1 tool cart."}</div></div><div className={"w"}><b >{"W"}</b>{"Workshops & machine shops"}</div></div><div className={"ex"}><div ><div className={"q"}>{"“How many multimeters are there?”"}</div><div className={"a"}>{"6, on the Electronics wall."}</div></div><div className={"w"}><b >{"M"}</b>{"Makers & makerspaces"}</div></div><div className={"ex"}><div ><div className={"q"}>{"“Where are the strain gauges?”"}</div><div className={"a"}>{"Cabinet B, drawer 3."}</div></div><div className={"w"}><b >{"L"}</b>{"Engineering labs"}</div></div><div className={"ex"}><div ><div className={"q"}>{"“What’s running low before the event?”"}</div><div className={"a"}>{"M10 nuts. 8 left in Hardware."}</div></div><div className={"w"}><b >{"R"}</b>{"Robotics teams"}</div></div><div className={"ex"}><div ><div className={"q"}>{"“Where did I put the drill?”"}</div><div className={"a"}>{"Garage, bottom cabinet."}</div></div><div className={"w"}><b >{"H"}</b>{"Everyday life"}</div></div><div className={"ex"}><div ><div className={"q"}>{"“Do we have a spare servo hub?”"}</div><div className={"a"}>{"1, in the Electronics tote."}</div></div><div className={"w"}><b >{"R"}</b>{"Robotics teams"}</div></div><div className={"ex"}><div ><div className={"q"}>{"“Where are the ER32 collets?”"}</div><div className={"a"}>{"14, on the CNC 1 tool cart."}</div></div><div className={"w"}><b >{"W"}</b>{"Workshops & machine shops"}</div></div><div className={"ex"}><div ><div className={"q"}>{"“How many multimeters are there?”"}</div><div className={"a"}>{"6, on the Electronics wall."}</div></div><div className={"w"}><b >{"M"}</b>{"Makers & makerspaces"}</div></div><div className={"ex"}><div ><div className={"q"}>{"“Where are the strain gauges?”"}</div><div className={"a"}>{"Cabinet B, drawer 3."}</div></div><div className={"w"}><b >{"L"}</b>{"Engineering labs"}</div></div><div className={"ex"}><div ><div className={"q"}>{"“What’s running low before the event?”"}</div><div className={"a"}>{"M10 nuts. 8 left in Hardware."}</div></div><div className={"w"}><b >{"R"}</b>{"Robotics teams"}</div></div><div className={"ex"}><div ><div className={"q"}>{"“Where did I put the drill?”"}</div><div className={"a"}>{"Garage, bottom cabinet."}</div></div><div className={"w"}><b >{"H"}</b>{"Everyday life"}</div></div></div></div>
 <div className={"x-in"}><p className={"x-note"}>{"Example questions and answers."}</p></div>
@@ -71,8 +71,8 @@ export function FoundersMarkup(){return (<section className={"x-sec fa2"} id={"x
 </div>
 </div></section>);}
 export function FooterMarkup(){return (<footer className={"x-foot"}><div className={"x-in"}>
-<div className={"x-fg"}><div ><a className={"x-logo"} href={"#top"}><svg width={"20"} height={"20"} viewBox={"0 0 100 100"} fill={"#F5F5F6"}><path d={"M12 24A12 12 0 0 1 24 12L40.5 12A5 5 0 0 1 45.5 17L45.5 38.5A4.5 4.5 0 0 0 50 43A4.5 4.5 0 0 0 54.5 38.5L54.5 17A5 5 0 0 1 59.5 12L76 12A12 12 0 0 1 88 24L88 40.5A5 5 0 0 1 83 45.5L61.5 45.5A4.5 4.5 0 0 0 57 50A4.5 4.5 0 0 0 61.5 54.5L83 54.5A5 5 0 0 1 88 59.5L88 76A12 12 0 0 1 76 88L59.5 88A5 5 0 0 1 54.5 83L54.5 61.5A4.5 4.5 0 0 0 50 57A4.5 4.5 0 0 0 45.5 61.5L45.5 83A5 5 0 0 1 40.5 88L24 88A12 12 0 0 1 12 76L12 59.5A5 5 0 0 1 17 54.5L38.5 54.5A4.5 4.5 0 0 0 43 50A4.5 4.5 0 0 0 38.5 45.5L17 45.5A5 5 0 0 1 12 40.5Z"}></path></svg>{"FindEZ AI"}</a><p className={"x-tag"}>{"Know what you have. Find what you need. Instantly."}</p></div>
-<div ><h4 >{"Product"}</h4><a href={"#x-fa"}>{"Founders Access"}</a><a href={"#cad"}>{"CAD Intelligence"}</a><a href={"/pricing"}>{"Plans & access"}</a><a href={"https://apps.apple.com/us/app/findez-ai/id6760401697"}>{"iPhone app"}</a><a href={"/docs/api"}>{"Developers"}</a></div>
-<div ><h4 >{"Company"}</h4><a href={"/research"}>{"Research"}</a><a href={"mailto:info@findez.ai"}>{"Contact"}</a><a href={"/privacy"}>{"Privacy"}</a><a href={"/terms"}>{"Terms"}</a></div></div>
+<div className={"x-fg"}><div ><a className={"x-logo"} href={"/"}><svg width={"20"} height={"20"} viewBox={"0 0 100 100"} fill={"#F5F5F6"}><path d={"M12 24A12 12 0 0 1 24 12L40.5 12A5 5 0 0 1 45.5 17L45.5 38.5A4.5 4.5 0 0 0 50 43A4.5 4.5 0 0 0 54.5 38.5L54.5 17A5 5 0 0 1 59.5 12L76 12A12 12 0 0 1 88 24L88 40.5A5 5 0 0 1 83 45.5L61.5 45.5A4.5 4.5 0 0 0 57 50A4.5 4.5 0 0 0 61.5 54.5L83 54.5A5 5 0 0 1 88 59.5L88 76A12 12 0 0 1 76 88L59.5 88A5 5 0 0 1 54.5 83L54.5 61.5A4.5 4.5 0 0 0 50 57A4.5 4.5 0 0 0 45.5 61.5L45.5 83A5 5 0 0 1 40.5 88L24 88A12 12 0 0 1 12 76L12 59.5A5 5 0 0 1 17 54.5L38.5 54.5A4.5 4.5 0 0 0 43 50A4.5 4.5 0 0 0 38.5 45.5L17 45.5A5 5 0 0 1 12 40.5Z"}></path></svg>{"FindEZ AI"}</a><p className={"x-tag"}>{"Know what you have. Find what you need. Instantly."}</p></div>
+<div ><h4 >{"Product"}</h4><a href={"/founders"}>{"Founders Access"}</a><a href={"#cad"}>{"CAD Intelligence"}</a><a href={"/solutions"}>{"Solutions"}</a><a href={"/pricing"}>{"Plans & access"}</a><a href={"https://apps.apple.com/us/app/findez-ai/id6760401697"}>{"iPhone app"}</a><a href={"/docs/api"}>{"Developers"}</a></div>
+<div ><h4 >{"Company"}</h4><a href={"/research"}>{"Research"}</a><a href={"mailto:info@findez.ai"}>{"Contact"}</a><a href={"/privacy"}>{"Privacy"}</a><a href={"/terms"}>{"Terms"}</a></div><div><h4>Community</h4><a href="https://discord.gg/sKRrWA5wbf" target="_blank" rel="noopener">Discord</a><a href="https://www.instagram.com/findezai/" target="_blank" rel="noopener">Instagram</a></div></div>
 <div className={"x-fb"}><span >{"© 2026 AI Robots Inc."}</span><span >{"FindEZ AI answers from what’s recorded in your inventory."}</span></div>
 </div></footer>);}

diff --git a/frontend/src/components/marketing-dark/home.css b/frontend/src/components/marketing-dark/home.css
@@ -247,7 +247,7 @@ html:has(.landing-home){overflow-x:hidden}
 .landing-home .fa2 .fine{margin-top:14px;font-size:13px;color:var(--g2);max-width:480px;line-height:1.5}
 /* footer */
 .landing-home .x-foot{border-top:1px solid var(--ln);padding:64px 0 40px}
-.landing-home .x-fg{display:grid;grid-template-columns:1.6fr 1fr 1fr;gap:40px}
+.landing-home .x-fg{display:grid;grid-template-columns:1.6fr 1fr 1fr 1fr;gap:40px}
 .landing-home .x-fg h4{font:400 13px var(--font-app-inter);color:var(--g2);margin-bottom:12px}
 .landing-home .x-fg a{display:block;color:var(--g1);text-decoration:none;font-size:14px;line-height:2.1}.landing-home .x-fg a:hover{color:var(--w)}
 .landing-home .x-fg .x-logo{display:flex;line-height:1}
@@ -326,3 +326,12 @@ html:has(.landing-home){overflow-x:hidden}
 .landing-home .x-h2 .wd{color:inherit}
 .landing-home .x-h2>span.wd{color:#F5F5F6}
 @media(prefers-reduced-motion:reduce){.landing-home *{animation:none!important;transition:none!important}.landing-home .x-stage,.landing-home .fa-pass{transform:none!important}.landing-home .wd{opacity:1;transform:none}}
+
+.landing-home .x-dd{position:relative}
+.landing-home .x-ddb{display:flex;align-items:center;gap:6px;background:none;border:0;padding:0;font:inherit;font-size:14px;color:var(--g1);cursor:pointer}
+.landing-home .x-ddb:hover,.landing-home .x-dd:focus-within .x-ddb{color:var(--w)}
+.landing-home .x-ddm{position:absolute;left:50%;top:100%;margin-top:14px;transform:translate(-50%,-4px);min-width:160px;padding:6px;border-radius:12px;background:#111113;box-shadow:inset 0 0 0 1px #2C2C2E,0 20px 40px -12px #000;opacity:0;pointer-events:none;transition:opacity .2s,transform .3s var(--e)}
+.landing-home .x-ddm:before{content:'';position:absolute;left:0;right:0;top:-16px;height:16px}
+.landing-home .x-dd:hover .x-ddm,.landing-home .x-dd:focus-within .x-ddm{opacity:1;pointer-events:auto;transform:translate(-50%,0)}
+.landing-home .x-ddm a{display:block;padding:8px 12px;border-radius:8px;color:var(--g1);text-decoration:none;font-size:14px}
+.landing-home .x-ddm a:hover{background:#1C1C1F;color:var(--w)}

diff --git a/docs/releases/landing-home2-20261111/README.md b/docs/releases/landing-home2-20261111/README.md
@@ -1,0 +1,67 @@
+# Homepage package 2 release, November 11, 2026
+
+Live target: https://findez.ai/
+
+## Scope and source
+
+Applied `findez-landing-codex-2.zip` to the real homepage in place. Updated the supplied documents and reference screenshots in `docs/landing-v3/`. Compared both archives: every animation script and image is unchanged.
+
+Runtime files changed:
+
+- `frontend/src/components/marketing-dark/home-content.tsx`: Community menu and footer column, updated destinations, footer Solutions link, removed pinned step numbers.
+- `frontend/src/components/marketing-dark/home.css`: supplied Community menu styling and four-column desktop footer, scoped to the homepage.
+
+Added this report and six live screenshots. Updated `.agents/ACTIVE_WORK.md`. No runtime files added or deleted. Existing CAD content and motion code are unchanged. No backend, mobile, signed-in app, auth, dependency, environment-file or configuration-file changes.
+
+## Routes
+
+Plan name remains **Founders Access**. All four checklist items remain.
+
+| Control | Destination |
+| --- | --- |
+| Logo | `/` |
+| Solutions | `/solutions` |
+| Founders Access navigation and footer | `/founders` |
+| Developers | `/docs/api` |
+| Sign in / Open the web app | `/signin` |
+| Header Download | `/desktop` |
+| Download for iPhone / iPhone app | `https://apps.apple.com/us/app/findez-ai/id6760401697` |
+| Join Founders Access | `/signup` |
+| CAD Intelligence navigation and footer | `#cad` |
+| Explore CAD Intelligence | `/cad` |
+| Discord, new tab | `https://discord.gg/sKRrWA5wbf` |
+| Instagram, new tab | `https://www.instagram.com/findezai/` |
+| Plans & access | `/pricing` |
+| Research | `/research` |
+| Contact | `mailto:info@findez.ai` |
+| Privacy / Terms | `/privacy` / `/terms` |
+
+No route substitutions were necessary. The same-page CAD footer anchor uses `#cad`, as requested, to preserve the smooth-scroll handler.
+
+## Deployment
+
+Deployed directly to the existing self-hosted production `findez-web` service in `/home/ubuntu/findez-tab-icon-20261111/frontend`, preserving the more recent site-icon release. No Vercel, Render, preview, alternate route, local server or staging site.
+
+The build command is `npm run build -- --webpack`. Existing dependencies are reused. The service is stopped for the build, then restarted after success. A backup of the prior compiled page and affected files restores the working page on failure.
+
+The first attempts failed in the existing Google Fonts loader and automatically restored the previous page. The final attempt uses a temporary build-only cache helper that downloads authentic Google Fonts CSS and font bytes through curl, verifies the WOFF signatures, and supplies those files through Next's font response hook. Font declarations and app configuration remain unchanged. This is not a fallback typeface or fabricated font response.
+
+## Screenshots
+
+| Section | Desktop | 390px phone layout |
+| --- | --- | --- |
+| Hero | [Desktop](desktop-hero.png) | [Phone](phone-hero.png) |
+| Pinned section | [Desktop](desktop-pinned.png) | [Phone](phone-pinned.png) |
+| Founders Access | [Desktop](desktop-founders.png) | [Phone](phone-founders.png) |
+
+## Verification
+
+Production build `hzTuddxupGo8jRJZAez5I` passed compilation, TypeScript and all 65 static pages. The source manifest comparison shows exactly the two intended runtime files changed. Public `/desktop`, `/founders`, `/signin` and `/signup` return HTTP 200.
+
+Live Safari checks covered 1440 x 900 and 390 x 844: Community menu, four-column desktop and wrapped phone footer, updated link destinations, the tour loop and Pause/Play, header hide/reveal, pinned list and reverse scrolling. Six fresh viewport screenshots are included. The animation scripts and image assets match the previous package exactly.
+
+No local preview, test suite, or additional package installation was run. Mobile evidence is Safari Responsive Design Mode, not a physical iPhone. Reduced-motion implementation is unchanged and was source-reviewed previously; manual reduced-motion emulation is not claimed. Font rasterization and animation capture phases can differ from static reference images; no intentional design differences were introduced.
+
+## Safari memory limitation
+
+Two top-to-bottom scroll passes were completed during profiling. The extended recording lasted 153.23 seconds and peaked at 275.03 MiB. Its final minute ranged from 197.45 to 208.1 MiB. However, Safari switched to another tab during observation, and the recording was stopped and resumed once. Background throttling affects this trace. An uninterrupted foreground one-minute flat-memory result is **not verified** for this update. The prior release's observation is documented separately, and no animation code changed in this package. See `safari-memory-summary.json`. Raw browser profiling data is not committed.

diff --git a/docs/landing-v3/CODEX_PROMPT.md b/docs/landing-v3/CODEX_PROMPT.md
@@ -32,13 +32,13 @@ WEB (NEXT.JS) ONLY. HOME PAGE ONLY. Replace the current home page (`/`) on finde
 - **Use the copy in the prototype exactly.** Don't add or remove lines.
 - **All app data shown is sample data.** Keep the "Sample data" tags and the "Example questions and answers." note. Nothing on this page calls an API.
 - **Privacy:** the tour uses "Alex", an "A" avatar and "Team Voltage". Never put a real user name, photo or team on this page.
-- **Links:**
-  - "Download" and "Download for iPhone" go to the App Store link already used on the site.
-  - "Open the web app" goes to the existing app or sign-in route.
-  - "Join Founders Access" goes to the existing Founders Access sign-up route.
-  - "Sign in" goes to the existing sign-in page.
-  - Nav: Solutions and Developers keep their current routes; "CAD Intelligence" scrolls to `#cad`; "Founders Access" scrolls to `#x-fa`.
-  - Tell me which routes you used.
+- **Links:** the prototype already uses the live site's routes. Keep them:
+  - Logo `/`, Solutions `/solutions`, Founders Access `/founders`, Developers `/docs/api`, Sign in `/signin`, header Download `/desktop`.
+  - Community menu: Discord `https://discord.gg/sKRrWA5wbf` and Instagram `https://www.instagram.com/findezai/` (new tab).
+  - "Download for iPhone": `https://apps.apple.com/us/app/findez-ai/id6760401697`. "Open the web app": `/signin`. "Join Founders Access": `/signup`.
+  - "CAD Intelligence" scrolls to `#cad` on this page (`/#cad` from other pages).
+  - Footer: Plans & access `/pricing`, Research `/research`, Contact `mailto:info@findez.ai`, Privacy `/privacy`, Terms `/terms`, plus the Community column.
+  - If any of these routes changed in the repo, use the repo's current route and tell me.
 - **Plan name:** if the app calls it "Founding Access" instead of "Founders Access", use the app's name everywhere and tell me.
 
 ## What's in this folder

diff --git a/.agents/ACTIVE_WORK.md b/.agents/ACTIVE_WORK.md
@@ -1711,3 +1711,16 @@ anchors and bidirectional pinned animation checked. Memory reached a stable
 reviewed but manual emulation and physical iPhone acceptance are not claimed.
 See `docs/releases/landing-home-20261111/README.md` for routes, file list and six
 live screenshots. Backend, mobile, auth, config and dependencies unchanged.
+
+
+## Homepage package 2, November 11, 2026
+
+Deployed supplied `findez-landing-codex-2.zip` on `feat/landing-home` directly to
+the current self-hosted `findez-tab-icon-20261111` release. Two runtime files
+changed: home-content.tsx and home.css. Community menu/footer added, header
+Download points to /desktop, Founders links to /founders, pinned step numbers
+removed. Animation scripts and assets unchanged. Production build
+`hzTuddxupGo8jRJZAez5I` passed after authentic Google Fonts caching resolved the
+existing loader failure. No app config changes. Public destinations return 200;
+Safari desktop and 390px layouts inspected. Details and six live screenshots:
+`docs/releases/landing-home2-20261111/README.md`.
